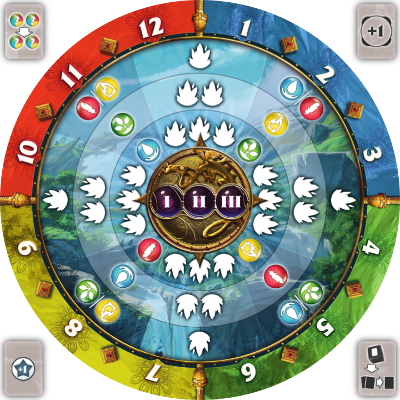
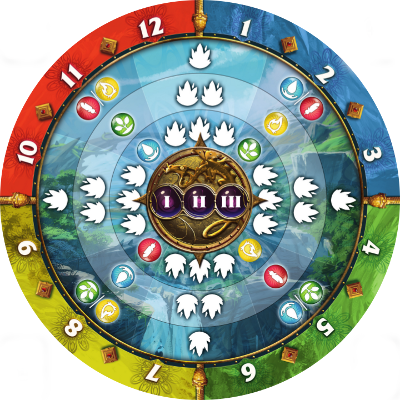
feat: adds new player panel on the left

diff --git a/seasonssk.js b/seasonssk.js
@@ -57,6 +57,9 @@ define([
                     else { player.choose_opponent = ''; }
 
                     dojo.place(this.format_block('jstpl_player_board', player), player_board_div);
+                    dojo.query("#bonusUsedCube_" + player_id).addClass('bonusUsed' + player.nb_bonus);
+
+                    this.disableBonusActions(player_id, toint(player.nb_bonus) == 3);
 
                     $('invocation_level_' + player_id).innerHTML = player.invocation;
                     if (gamedatas.handcount[player_id]) { $('handcount_' + player_id).innerHTML = gamedatas.handcount[player_id]; }
@@ -94,6 +97,7 @@ define([
                     this.setReserveSize(player_id, player.reserve_size);
 
                     this.playerTableau[player_id] = new ebg.stock();
+                    //console.log("************", player_id, this.playerTableau);
                     this.playerTableau[player_id].create(this, $('player_tableau_' + player_id), 124, 173);
                     this.playerTableau[player_id].image_items_per_row = 10;
                     this.playerTableau[player_id].extraClasses = 'thickness';
@@ -107,7 +111,7 @@ define([
                     else {
                         dojo.connect(this.playerTableau[player_id], 'onChangeSelection', this, 'onPowerCardActivation');
                     }
-
+                    dojo.attr("left_avatar_" + player_id, "src", this.getPlayerAvatarWithSize(player_id, 92));
                 }
 
                 this.addTooltipToClass('tinvocationlevel', _('Summoning gauge: maximum number of cards this player can have in play (maximum value: 15)'), '');
@@ -281,11 +285,6 @@ define([
 
                 dojo.query('.bonus').connect('onclick', this, 'onUseBonus');
 
-                this.addTooltip('bonus1', '', _('Bonus: Trade 2 energy tokens for 2 energy tokens of your choice'));
-                this.addTooltip('bonus2', '', _('Bonus: You can transmute energies this turn'));
-                this.addTooltip('bonus3', '', _('Bonus: Increase your summoning gauge by one'));
-                this.addTooltip('bonus4', '', _('Bonus: Instead of drawing 1 card this turn, draw 2 cards and keep one.'));
-
                 this.addTooltip('current_month', _('Season token: indicate current time and season.'), '');
                 this.addTooltip('current_year', _('Year indicator (game end after the third year)'), '');
 
@@ -300,7 +299,18 @@ define([
 
             ///////////////////////////////////////////////////
             //// Utilities
+            getPlayerAvatar(pId) {
+                //console.log("uuuuuuuuuuu", pId, $('avatar_' + pId));
+                return $('avatar_' + pId)
+                    ? dojo.attr('avatar_' + pId, 'src')
+                    : 'https://en.studio.boardgamearena.com:8083/data/avatar/noimage.png';
+            },
 
+            /** 184, 92, 50, 32 are valid sizes. */
+            getPlayerAvatarWithSize(pId, size) {
+                let url = this.getPlayerAvatar(pId);
+                return url.replace(/_[0-9]{2}./, "_" + size+".");
+            },
             /**
              * Creates four circle quarters with different opacities to highlight the current season.
              */
@@ -346,6 +356,16 @@ define([
                 const cy2 = -Math.sin(degtorad * a1) * cr + y;
 
                 return `M${x} ${y} ${cx1} ${cy1} A${cr} ${cr} 0 0 1 ${cx2} ${cy2}Z`;
+            },
+
+            queryFirst: function (query) {
+                return document.querySelector(query);
+            },
+
+            queryFirstId: function (query, defaultValue) {
+                var res = document.querySelector(query);
+                if (!res) return defaultValue;
+                return res.id;
             },
 
             // Get card original type (see "Raven")
@@ -618,10 +638,15 @@ define([
                 var backy = 54 * (toint(face) - 1);
                 dojo.style('playerdie_' + dice_player, 'display', 'block');
                 dojo.style('playerdie_' + dice_player, 'backgroundPosition', '-' + backx + 'px -' + backy + 'px');
-
                 this.placeOnObject('playerdie_' + dice_player, 'seasons_dices_item_' + dice);
                 this.slideToObject('playerdie_' + dice_player, 'playerdie_wrap_' + dice_player).play();
                 this.addTooltipHtml('playerdie_' + dice_player, this.getDieTooltip(dice_type), _('Chosen die'));
+
+                dojo.style('playerdie_left_' + dice_player, 'display', 'block');
+                dojo.style('playerdie_left_' + dice_player, 'backgroundPosition', '-' + backx + 'px -' + backy + 'px');
+                this.placeOnObject('playerdie_left_' + dice_player, 'seasons_dices_item_' + dice);
+                this.slideToObject('playerdie_left_' + dice_player, 'playerdie_wrap_left_' + dice_player).play();
+                this.addTooltipHtml('playerdie_left_' + dice_player, this.getDieTooltip(dice_type), _('Chosen die'));
 
                 this.seasonDices.removeFromStockById(dice);
             },
@@ -1965,6 +1990,30 @@ define([
                 var oldnbr = toint(notif.args.bonus_used) - 1;
                 dojo.removeClass('bonusused_' + notif.args.player_id, 'bonusused' + oldnbr);
                 dojo.addClass('bonusused_' + notif.args.player_id, 'bonusused' + notif.args.bonus_used);
+                dojo.query("#bonusUsedCube_" + notif.args.player_id).removeClass('bonusUsed' + oldnbr).addClass('bonusUsed' + notif.args.bonus_used);
+                this.disableBonusActions(notif.args.player_id, toint(notif.args.bonus_used) == 3);
+            },
+
+            disableBonusActions: function (player_id, disable) {
+                let bonusesQuery = "#leftPlayerBoard_" + player_id + " .bonus";
+                if (disable) {
+                    dojo.query(bonusesQuery).removeClass("enabled").forEach(element => {
+                        this.addTooltip(element.id, '', _("You've already used your 3 possible bonus actions"));
+                    });
+                }
+                else {
+                    dojo.query(bonusesQuery).addClass("enabled");
+                    this.addTooltip('bonus1_' + player_id, '', _('Bonus: Trade 2 energy tokens for 2 energy tokens of your choice'));
+                    this.addTooltip('bonus2_' + player_id, '', _('Bonus: You can transmute energies this turn'));
+                    this.addTooltip('bonus3_' + player_id, '', _('Bonus: Increase your summoning gauge by one'));
+                    this.addTooltip('bonus_4' + player_id, '', _('Bonus: Instead of drawing 1 card this turn, draw 2 cards and keep one.'));
+                }
+
+                /* console.log("+++++", dojo.query("#leftPlayerBoard_" + player_id + " .bonus1").);
+                 this.addTooltip(this.queryFirst("#leftPlayerBoard_" + player_id + " .bonus1"), '', _("You've already used your 3 possible bonus actions"));
+                 this.addTooltip('bonus2', '', _("You've already used your 3 possible bonus actions"));
+                 this.addTooltip('bonus3', '', _("You've already used your 3 possible bonus actions"));
+                 this.addTooltip('bonus4', '', _("You've already used your 3 possible bonus actions"));*/
             },
             notif_bonusBack: function (notif) {
                 console.log('notif_bonusBack');

diff --git a/seasonssk.css b/seasonssk.css
@@ -10,7 +10,8 @@
 	background-image: url("img/board.png");
 	float: left;
 	position: relative;
-    /*box-shadow: 0px 0px 7px 8px #e9b415;*/
+	box-shadow: 0px 0px 10px 4px #e9b415;
+    border-radius: 210px;
 }
 #season_library_choice {
 	width: 410px;
@@ -21,16 +22,16 @@
 }
 
 .season_1 #season_dices_wrap {
-	border: 2px solid teal;
+	border: 2px solid #008080;
 }
 .season_2 #season_dices_wrap {
-	border: 2px solid rgb(97, 172, 27);
+	border: 2px solid #61ac1b;
 }
 .season_3 #season_dices_wrap {
-	border: 2px solid rgb(248, 234, 38);
+	border: 2px solid #f8ea26;
 }
 .season_4 #season_dices_wrap {
-	border: 2px solid rgb(252, 55, 55);
+	border: 2px solid #fc3737;
 }
 
 .seasons_rightpanel {
@@ -130,27 +131,42 @@
 	top: 183px;
 }
 
+.bonus_actions {
+	display: grid;
+	grid-template-columns: 40px 40px;
+	grid-template-rows: 56px 56px;
+	grid-column-gap: 5px;
+	grid-row-gap: 5px;
+}
+
 .bonus {
-	position: absolute;
-	width: 43px;
-	height: 60px;
 	cursor: pointer;
+	background-image: url("img/bonuses.png");
+	border-radius: 6px;
 }
-#bonus1 {
-	left: 2px;
-	top: 2px;
+.bonus1 {
+	width: 39px;
+	height: 55px;
+	background-position: -47px -3px;
 }
-#bonus2 {
-	right: 2px;
-	top: 2px;
+.bonus2 {
+	width: 39px;
+	height: 55px;
+	background-position: -92px -3px;
 }
-#bonus3 {
-	left: 2px;
-	bottom: 2px;
+.bonus3 {
+	width: 38px;
+	height: 55px;
+	background-position: -3px -3px;
 }
-#bonus4 {
-	right: 2px;
-	bottom: 2px;
+.bonus4 {
+	width: 39px;
+	height: 55px;
+	background-position: -137px -3px;
+}
+
+.enabled {
+	box-shadow: 0px 0px 1px 2px #f0ec18;
 }
 
 #season_dices_wrap {
@@ -160,7 +176,7 @@
 }
 
 #season_dices_wrap > *:not(.conversion_reminder) {
-    grid-column: 1;
+	grid-column: 1;
 }
 
 .conversion_reminder {
@@ -183,6 +199,40 @@
 	margin: 0px 3px 0px 3px;
 }
 
+/*Player board on the left*/
+.leftPlayerBoard {
+	border: 2px solid #9d7e7e;
+	border-radius: 60px;
+	display: inline-flex;
+	flex-direction: column;
+	align-items: center;
+	justify-content: center;
+	padding: 5px 5px 25px 5px;
+}
+.ssn-avatar {
+	width: 80px;
+	height: 80px;
+	border: 2px solid;
+	border-radius: 40px;
+	margin-top: -38px;
+	border-color: inherit;
+}
+
+.bonus_actions_used {
+	margin-bottom: 5px;
+}
+
+.bonus_actions_used div:first-child,
+.bonus_actions_used div:last-child {
+	margin-bottom: -4px;
+}
+
+.leftPlayerBoard .icon_cristal {
+	margin-left: -105px;
+}
+.leftPlayerBoard .icon_play {
+	margin-right: -105px;
+}
 /* card */
 
 .cardtitle {
@@ -271,6 +321,29 @@
 	height: 30px;
 	background-position: -119px -35px;
 }
+.icon_black_cube {
+	width: 30px;
+	height: 30px;
+	background-position: -0px -25px;
+}
+
+.bonusUsedCube.bonusUsed0 {
+	margin-left: -87px;
+	margin-bottom: -7px;
+}
+.bonusUsedCube.bonusUsed1 {
+	margin-left: -28px;
+	margin-bottom: -4px;
+}
+.bonusUsedCube.bonusUsed2 {
+	margin-left: 28px;
+	margin-bottom: -4px;
+}
+.bonusUsedCube.bonusUsed3 {
+	margin-left: 87px;
+	margin-bottom: -7px;
+}
+
 /*todo trouver l'icone*/
 .icon_separator {
 	width: 12px;

diff --git a/seasonssk.view.php b/seasonssk.view.php
@@ -30,16 +30,21 @@ class view_seasonssk_seasonssk extends game_view {
         global $g_user;
 
         $this->tpl['CURRENT_PLAYER_ID'] = $g_user->get_id();
-        if (isset($players[$g_user->get_id()]))
+        if (isset($players[$g_user->get_id()])){
             $this->tpl['CURRENT_PLAYER_NAME'] = $players[$g_user->get_id()]['player_name'];
-        else
+            $this->tpl['CURRENT_PLAYER_COLOR'] = $players[$g_user->get_id()]['player_color'];
+        }
+        else{
             $this->tpl['CURRENT_PLAYER_NAME'] = '';
+            $this->tpl['CURRENT_PLAYER_COLOR'] = '';
+        }
 
         foreach ($players as $player) {
             if ($player['player_id'] != $g_user->get_id()) {
                 $this->page->insert_block("player", array(
                     "PLAYER_ID" => $player['player_id'],
-                    "PLAYER_NAME" => $player['player_name']
+                    "PLAYER_NAME" => $player['player_name'],
+                    "PLAYER_COLOR" => $player['player_color']
                 ));
             }
         }

diff --git a/seasonssk.game.php b/seasonssk.game.php
@@ -58,7 +58,8 @@ class SeasonsSK extends Table {
         self::DbQuery($sql);
 
         // Create players
-        $default_color = array("ff0000", "008000", "0000ff", "ffa500");
+        $default_color = array("b4df4d", "f79a06", "9147a3", "817566");
+        //$default_color = array("ff0000", "008000", "0000ff", "ffa500");
         $sql = "INSERT INTO player (player_id, player_color, player_canal, player_name, player_avatar) VALUES ";
         $values = array();
         foreach ($players as $player_id => $player) {
@@ -67,7 +68,7 @@ class SeasonsSK extends Table {
         }
         $sql .= implode($values, ',');
         self::DbQuery($sql);
-        self::reattributeColorsBasedOnPreferences($players, array("ff0000", "008000", "0000ff", "ffa500"));
+        self::reattributeColorsBasedOnPreferences($players, $default_color);
         self::reloadPlayersBasicInfos();
 
         $players_count = count($players);
